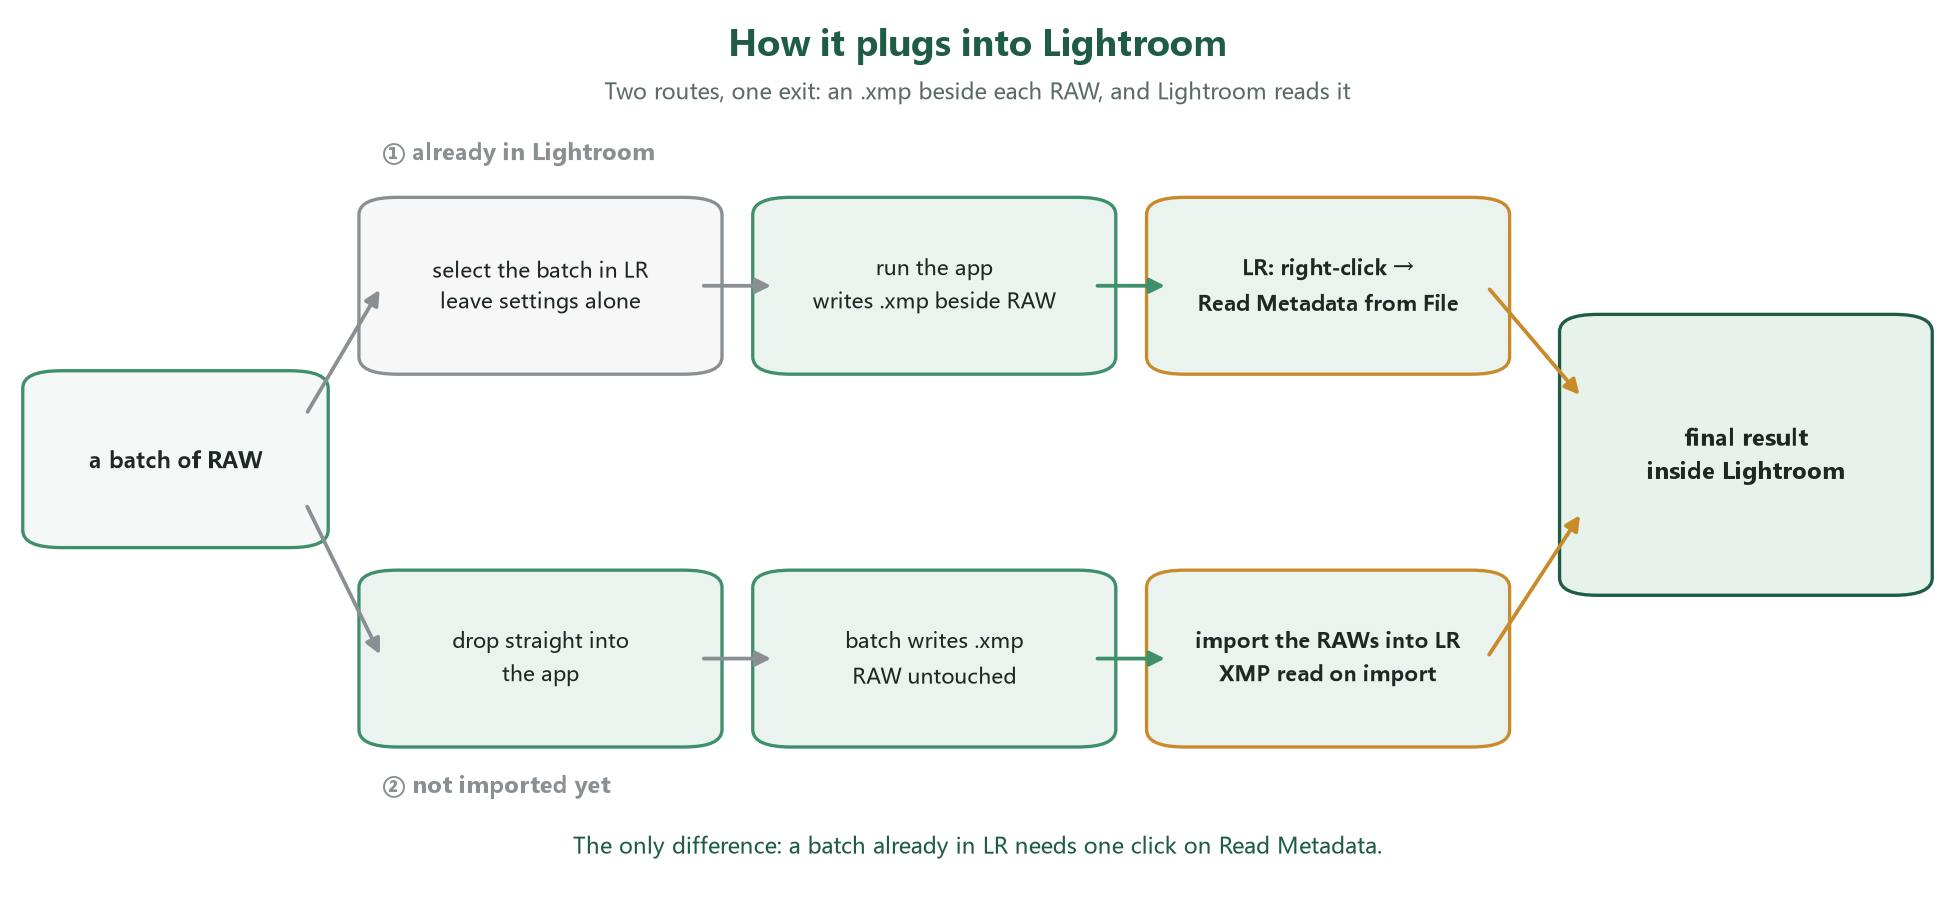
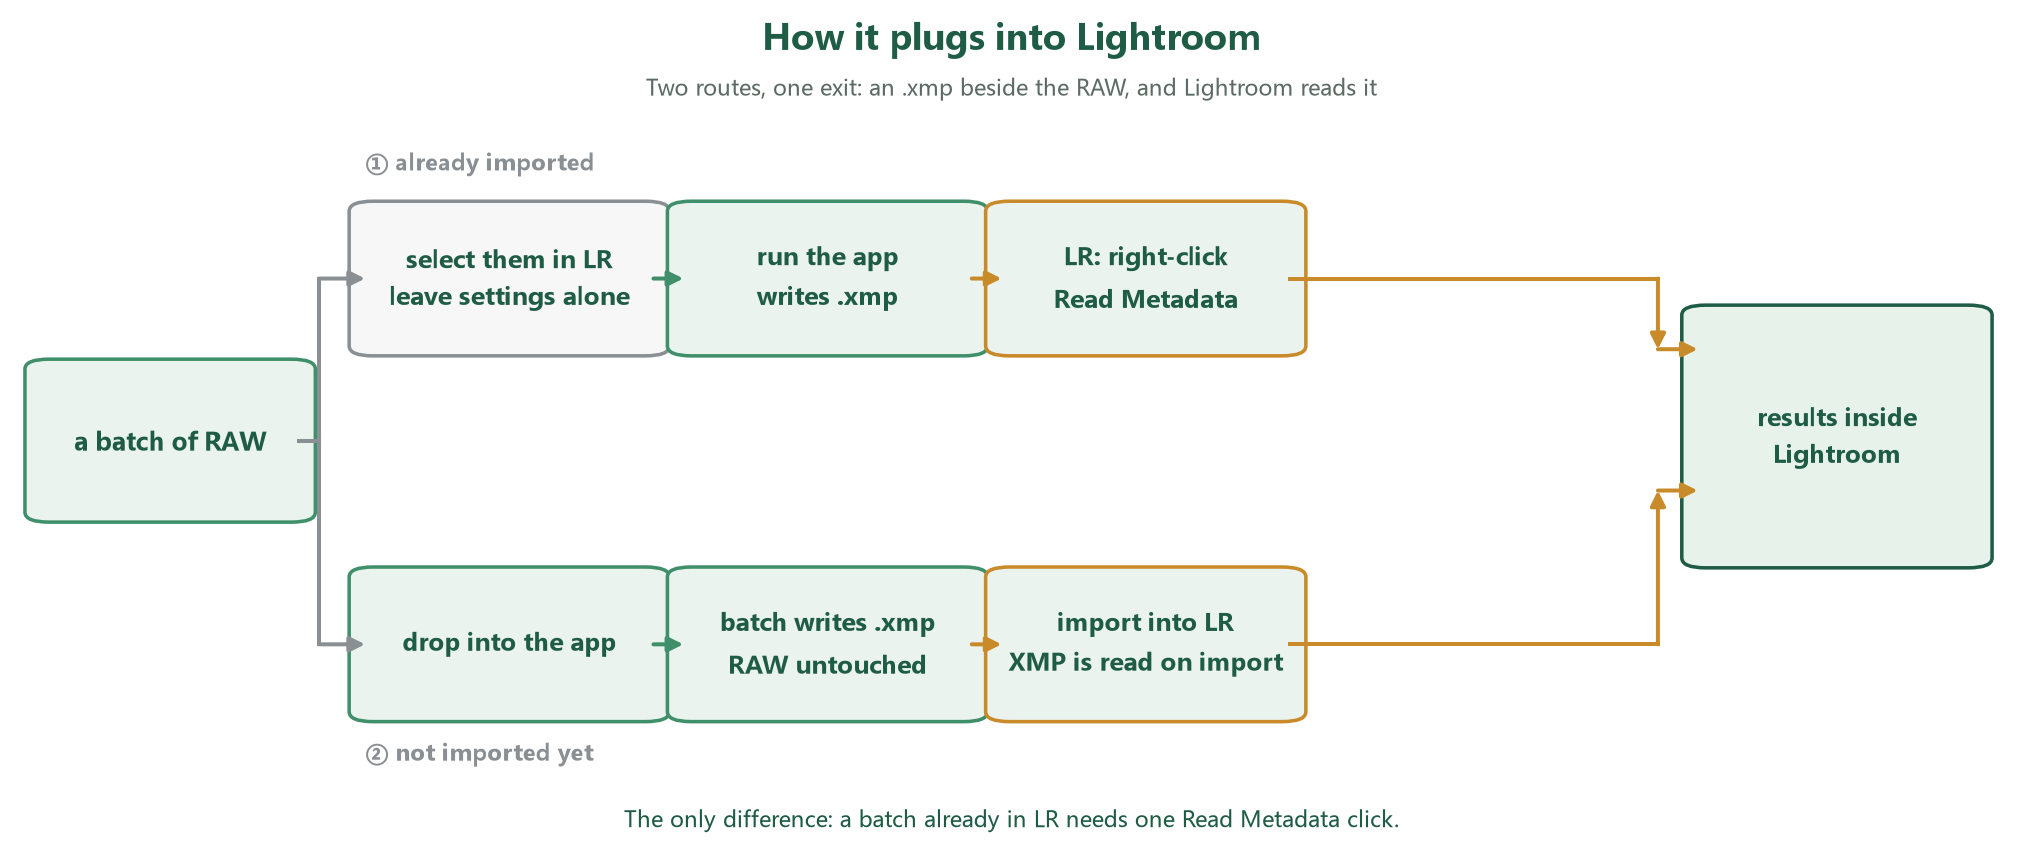
docs+ui: redraw both flowcharts (orthogonal arrows, per-step detail); drop the follow checkbox; collapse an empty sheet
- flow_lr: elbows instead of diagonals, nothing crosses
- flow_workflow: two concrete bullets per step, who-does-it on the right
- the follow behaviour stays (always follows until you click), the switch is gone
- when the contact sheet is empty it shrinks to a strip instead of eating half the panel

Changed region(s): [[0.0, 0.1561, 0.9985, 0.9052], [0.312, 0.0312, 0.6864, 0.1249], [0.2808, 0.9052, 0.7176, 0.9676]]

diff --git a/reports/flowcharts.py b/reports/flowcharts.py
@@ -1,7 +1,7 @@
-"""两张流程图（中英各一份）：
-   1) 它和 Lightroom 怎么接：已导入 / 未导入 两条路
-   2) 完整工作流：选片 → 精修 → 跑批 → 微调 → 导出
-输出到 docs/media/，由 docs/manual.md 引用。
+"""两张流程图（中英各一份），第二版：正交连线、不重叠、每步带细项。
+
+   1) 它和 Lightroom 怎么接
+   2) 完整工作流（生态摄影后期的五步）
 """
 from __future__ import annotations
 
@@ -10,7 +10,7 @@ import os
 import matplotlib
 matplotlib.use("Agg")
 import matplotlib.pyplot as plt
-from matplotlib.patches import FancyBboxPatch, FancyArrowPatch
+from matplotlib.patches import FancyBboxPatch
 
 HERE = os.path.dirname(os.path.abspath(__file__))
 OUT = os.path.join(os.path.dirname(HERE), "docs", "media")
@@ -19,99 +19,103 @@ os.makedirs(OUT, exist_ok=True)
 plt.rcParams["font.sans-serif"] = ["Microsoft YaHei", "SimHei", "DejaVu Sans"]
 plt.rcParams["axes.unicode_minus"] = False
 
-GREEN = "#3f8f6b"
-DEEP = "#1f5c45"
-GREY = "#8a8f93"
-AMBER = "#c98a2a"
-BLUE = "#4f86b8"
-INK = "#1f2724"
-SOFT = "#eaf3ee"
+GREEN, DEEP, GREY, AMBER, BLUE = "#3f8f6b", "#1f5c45", "#8a8f93", "#c98a2a", "#4f86b8"
+INK, SOFT, PAPER = "#1f2724", "#eaf3ee", "#f7f7f7"
 
 
-def box(ax, x, y, w, h, text, fc=SOFT, ec=GREEN, fs=10, bold=False, tc=INK):
-    p = FancyBboxPatch((x, y), w, h, boxstyle="round,pad=0.012,rounding_size=0.02",
-                       fc=fc, ec=ec, lw=1.4)
-    ax.add_patch(p)
-    ax.text(x + w / 2, y + h / 2, text, ha="center", va="center", fontsize=fs,
-            color=tc, fontweight="bold" if bold else "normal", linespacing=1.5)
+def box(ax, x, y, w, h, title=None, body=None, fc=SOFT, ec=GREEN,
+        fs_t=10.2, fs_b=8.6, tc=DEEP):
+    ax.add_patch(FancyBboxPatch((x, y), w, h, boxstyle="round,pad=0.008,rounding_size=0.012",
+                                fc=fc, ec=ec, lw=1.5))
+    if title and body:
+        ax.text(x + w / 2, y + h * .68, title, ha="center", va="center",
+                fontsize=fs_t, color=tc, fontweight="bold")
+        ax.text(x + w / 2, y + h * .32, body, ha="center", va="center",
+                fontsize=fs_b, color=INK, linespacing=1.55)
+    elif title:
+        ax.text(x + w / 2, y + h / 2, title, ha="center", va="center",
+                fontsize=fs_t, color=tc, fontweight="bold", linespacing=1.55)
 
 
-def arrow(ax, p1, p2, color=GREEN, style="-|>", lw=1.6, rad=0.0, ls="-"):
-    a = FancyArrowPatch(p1, p2, arrowstyle=style, mutation_scale=13,
-                        color=color, lw=lw, linestyle=ls,
-                        connectionstyle=f"arc3,rad={rad}")
-    ax.add_patch(a)
+def harrow(ax, x1, x2, y, c=GREEN):
+    ax.annotate("", xy=(x2, y), xytext=(x1, y),
+                arrowprops=dict(arrowstyle="-|>", color=c, lw=1.7,
+                                shrinkA=0, shrinkB=0, mutation_scale=13))
 
 
-def canvas(w=11, h=6.2):
+def varrow(ax, y1, y2, x, c=GREEN):
+    ax.annotate("", xy=(x, y2), xytext=(x, y1),
+                arrowprops=dict(arrowstyle="-|>", color=c, lw=1.7,
+                                shrinkA=0, shrinkB=0, mutation_scale=13))
+
+
+def canvas(w, h):
     fig, ax = plt.subplots(figsize=(w, h))
-    ax.set_xlim(0, 1)
-    ax.set_ylim(0, 1)
-    ax.axis("off")
+    ax.set_xlim(0, 1); ax.set_ylim(0, 1); ax.axis("off")
     return fig, ax
 
 
-# --------------------------------------------------------------- 1 与 LR 的关系
+# ------------------------------------------------------------------ 1 与 LR 的关系
 def fig_lr(zh: bool):
-    fig, ax = canvas(11.6, 5.4)
     t = (lambda a, b: a) if zh else (lambda a, b: b)
-
-    ax.text(.5, .955, t("它和 Lightroom 怎么接", "How it plugs into Lightroom"),
+    fig, ax = canvas(12.0, 5.2)
+    ax.text(.5, .96, t("它和 Lightroom 怎么接", "How it plugs into Lightroom"),
             ha="center", fontsize=15, fontweight="bold", color=DEEP)
-    ax.text(.5, .905, t("两条路，出口一样：照片旁边多一个 .xmp，LR 认它",
-                        "Two routes, one exit: an .xmp beside each RAW, and Lightroom reads it"),
-            ha="center", fontsize=9.5, color="#5c6b64")
+    ax.text(.5, .905, t("两条路，一个出口：RAW 旁边多一个 .xmp，Lightroom 认它",
+                        "Two routes, one exit: an .xmp beside the RAW, and Lightroom reads it"),
+            ha="center", fontsize=9.4, color="#5c6b64")
 
-    # 列坐标
-    x0, w0 = .015, .135          # 起点
-    xs = [.19, .395, .60]        # 三列
-    ws = .165
-    xr, wr = .815, .17           # 结果
+    x_start, w_start = .012, .13
+    cols = [.175, .335, .495]
+    w = .145
+    x_end, w_end = .845, .14
+    yA, yB, hh = .60, .16, .17
 
-    ya, ha = .60, .18            # 上支
-    yb, hb = .17, .18            # 下支
+    box(ax, x_start, .40, w_start, .18,
+        t("一批新照片\n（RAW）", "a batch of RAW"), fs_t=10.4)
 
-    # 起点
-    box(ax, x0, .40, w0, .18,
-        t("一批新照片\n（RAW）", "a batch of RAW"), fc="#f4f8f6", fs=9.4, bold=True)
+    ax.text(.175, .815, t("① 已经导进 Lightroom", "① already imported"),
+            fontsize=9.6, color=GREY, fontweight="bold")
+    ax.text(.175, .105, t("② 还没导进 Lightroom", "② not imported yet"),
+            fontsize=9.6, color=GREY, fontweight="bold")
 
-    # 分支标签
-    ax.text(.19, .835, t("① 已经导进 Lightroom", "① already in Lightroom"),
-            fontsize=9.8, color=GREY, fontweight="bold")
-    ax.text(.19, .105, t("② 还没导进 Lightroom", "② not imported yet"),
-            fontsize=9.8, color=GREY, fontweight="bold")
+    A = [t("LR 里全选\n参数先别动", "select them in LR\nleave settings alone"),
+         t("跑软件\n写 .xmp", "run the app\nwrites .xmp"),
+         t("LR 右键\n读取元数据", "LR: right-click\nRead Metadata")]
+    B = [t("直接拖进软件", "drop into the app"),
+         t("批量出 .xmp\n原片不动", "batch writes .xmp\nRAW untouched"),
+         t("RAW 拖进 LR 导入\n导入即读 .xmp", "import into LR\nXMP is read on import")]
 
-    A = [t("LR 里全选这批\n参数先别动", "select the batch in LR\nleave settings alone"),
-         t("跑 iKun Insect Studio\nRAW 旁边写 .xmp", "run the app\nwrites .xmp beside RAW"),
-         t("LR：右键 →\n「从文件读取元数据」", "LR: right-click →\nRead Metadata from File")]
-    B = [t("直接拖进\niKun Insect Studio", "drop straight into\nthe app"),
-         t("批量出 .xmp\n（原片不动）", "batch writes .xmp\nRAW untouched"),
-         t("把 RAW 拖进 LR 导入\n（导入即读 .xmp）", "import the RAWs into LR\nXMP read on import")]
+    for i, x in enumerate(cols):
+        ecA = [GREY, GREEN, AMBER][i]
+        ecB = [GREEN, GREEN, AMBER][i]
+        box(ax, x, yA, w, hh, A[i], fc=PAPER if i == 0 else SOFT, ec=ecA)
+        box(ax, x, yB, w, hh, B[i], fc=SOFT, ec=ecB)
 
-    for i, x in enumerate(xs):
-        box(ax, x, ya, ws, ha, A[i], fc="#f7f7f7" if i == 0 else SOFT,
-            ec=GREY if i == 0 else (AMBER if i == 2 else GREEN), fs=8.8,
-            bold=(i == 2))
-        box(ax, x, yb, ws, hb, B[i], fc=SOFT,
-            ec=AMBER if i == 2 else GREEN, fs=8.8, bold=(i == 2))
+    # 起点 → 两行（正交折线）
+    ax.plot([x_start + w_start, .152], [.49, .49], color=GREY, lw=1.7)
+    ax.plot([.152, .152], [yA + hh / 2, yB + hh / 2], color=GREY, lw=1.7)
+    harrow(ax, .152, cols[0], yA + hh / 2, GREY)
+    harrow(ax, .152, cols[0], yB + hh / 2, GREY)
 
-    # 起点 → 两支
-    arrow(ax, (x0 + w0, .54), (xs[0], ya + ha / 2), GREY)
-    arrow(ax, (x0 + w0, .44), (xs[0], yb + hb / 2), GREY)
-    # 横向
     for i in range(2):
-        arrow(ax, (xs[i] + ws, ya + ha / 2), (xs[i + 1], ya + ha / 2),
-              GREEN if i == 1 else GREY)
-        arrow(ax, (xs[i] + ws, yb + hb / 2), (xs[i + 1], yb + hb / 2),
-              GREEN if i == 1 else GREY)
-    # 汇合
-    box(ax, xr, .345, wr, .30, t("Lightroom 里\n看到最终结果", "final result\ninside Lightroom"),
-        fc="#e6f2ea", ec=DEEP, fs=9.6, bold=True)
-    arrow(ax, (xs[2] + ws, ya + ha / 2), (xr, .56), AMBER)
-    arrow(ax, (xs[2] + ws, yb + hb / 2), (xr, .43), AMBER)
+        harrow(ax, cols[i] + w, cols[i + 1], yA + hh / 2, GREEN if i == 0 else AMBER)
+        harrow(ax, cols[i] + w, cols[i + 1], yB + hh / 2, GREEN if i == 0 else AMBER)
 
-    ax.text(.5, .035, t("差别只有一个动作：已经在 LR 里的那批，要手点一次「读取元数据」。",
-                        "The only difference: a batch already in LR needs one click on Read Metadata."),
+    box(ax, x_end, .345, w_end, .30,
+        t("Lightroom 里\n看到结果", "results inside\nLightroom"), fc="#e6f2ea", ec=DEEP,
+        fs_t=10.2)
+
+    # 两支 → 结果（折线，不斜穿）
+    ax.plot([cols[2] + w, .825], [yA + hh / 2, yA + hh / 2], color=AMBER, lw=1.7)
+    varrow(ax, yA + hh / 2, .60, .825, AMBER)
+    ax.plot([cols[2] + w, .825], [yB + hh / 2, yB + hh / 2], color=AMBER, lw=1.7)
+    varrow(ax, yB + hh / 2, .43, .825, AMBER)
+    harrow(ax, .825, x_end, .60, AMBER)
+    harrow(ax, .825, x_end, .43, AMBER)
+
+    ax.text(.5, .025, t("差别只有一个动作：已经在 LR 里的那批，手点一次「读取元数据」。",
+                        "The only difference: a batch already in LR needs one Read Metadata click."),
             ha="center", fontsize=9.2, color=DEEP)
     fig.tight_layout()
     fp = os.path.join(OUT, f"flow_lr.{'zh' if zh else 'en'}.png")
@@ -120,64 +124,76 @@ def fig_lr(zh: bool):
     return fp
 
 
-# --------------------------------------------------------------- 2 工作流
-def fig_workflow(zh: bool):
-    fig, ax = canvas(8.4, 11.2)
-    t = (lambda a, b: a) if zh else (lambda a, b: b)
+# ------------------------------------------------------------------ 2 工作流
+STEPS = {
+    "zh": [
+        ("选片", "你", GREY,
+         ["按批次先过一遍：糊的、抖的、重复的、遮挡的直接删",
+          "留下有行为、有生境信息的；生态片的价值常在那一点环境里"]),
+        ("挑出要精修的", "你", AMBER,
+         ["只挑 5–10%：真正能出片的几张",
+          "完整后期手工做（构图、光比、色彩），这几张不交给软件"]),
+        ("跑批", "软件", GREEN,
+         ["其余全部拖进软件，策略选「跳过已有 XMP」",
+          "只做掩膜 → 裁切 → 曝光 → 锐化，写进 .xmp；白平衡不碰"]),
+        ("微调", "你", BLUE,
+         ["白平衡必须自己调（软件不猜色温）",
+          "曝光、裁切个别不平的拖一下；头点拖错也会被记住"]),
+        ("导出", "Lightroom", DEEP,
+         ["LR 里「读取元数据」→ 套统一预设 → 导出",
+          "软件只写 .xmp，原片一个字节都不动"]),
+    ],
+    "en": [
+        ("Cull", "you", GREY,
+         ["Go batch by batch: delete soft, shaken, duplicated, blocked frames",
+          "Keep behaviour and habitat — in ecological work the environment is the story"]),
+        ("Pick the keepers", "you", AMBER,
+         ["Only 5–10%: the frames actually worth publishing",
+          "Finish these by hand (composition, contrast, colour); keep them out of the batch"]),
+        ("Batch run", "the app", GREEN,
+         ["Drop the rest in, policy = 「skip photos with XMP」",
+          "Mask → crop → exposure → sharpening into .xmp; white balance untouched"]),
+        ("Fine-tune", "you", BLUE,
+         ["White balance by hand — the app never guesses colour temperature",
+          "Nudge the odd exposure or crop; a corrected head point is remembered"]),
+        ("Export", "Lightroom", DEEP,
+         ["Read Metadata in LR → apply your preset → export",
+          "The app only writes .xmp; the RAW is never modified"]),
+    ],
+}
 
-    ax.text(.5, .972, t("完整工作流：从一堆废片到交付",
+
+def fig_workflow(zh: bool):
+    rows = STEPS["zh" if zh else "en"]
+    fig, ax = canvas(9.0, 11.6)
+    t = (lambda a, b: a) if zh else (lambda a, b: b)
+    ax.text(.5, .975, t("完整工作流：从一堆废片到交付",
                         "The full workflow: from a card dump to delivery"),
             ha="center", fontsize=14.5, fontweight="bold", color=DEEP)
+    ax.text(.5, .938, t("五步，前三步决定成片质量，后两步决定一致性",
+                        "Five steps: the first three decide quality, the last two decide consistency"),
+            ha="center", fontsize=9.2, color="#5c6b64")
 
-    steps = [
-        (t("选片", "Cull"),
-         t("手动过一遍，太丑的、糊的、重复的直接删",
-           "Go through by hand; delete the ugly, the soft, the duplicates"),
-         t("这一步只能你做，软件不猜", "only you can do this — the tool will not guess"),
-         GREY),
-        (t("挑出要精修的", "Pick the keepers"),
-         t("特别满意的几张，先自己手动修到满意",
-           "The few you really care about: edit them by hand first"),
-         t("后面跑批时要「跳过自己修过的」，靠的就是这批",
-          "this is what 「skip what I edited」 protects later"),
-         AMBER),
-        (t("跑批", "Batch run"),
-         t("剩下的全部拖进软件，策略选「跳过已有 XMP」",
-           "drop the rest into the app, policy = 「skip photos with XMP」"),
-         t("掩膜 + 裁切 + 曝光 + 锐化一次出完，写成 .xmp",
-           "mask + crop + exposure + sharpening in one pass, written as .xmp"),
-         GREEN),
-        (t("微调", "Fine-tune"),
-         t("白平衡手动调；个别曝光、裁切不平的，在软件里拖一下",
-           "white balance by hand; nudge the odd exposure or crop in the app"),
-         t("拖过的这张会记住，下次遇到相近的自动补偿",
-           "a nudged head point is remembered and reused for similar frames"),
-         BLUE),
-        (t("导出", "Export"),
-         t("LR 里「读取元数据」→ 统一套预设 → 导出",
-           "Read Metadata in LR → apply your preset → export"),
-         t("软件只写到 .xmp，不碰你的原片", "the app only writes .xmp; RAWs are never touched"),
-         DEEP),
-    ]
+    top, gap, bh = .885, .168, .128
+    for i, (head, who, col, bullets) in enumerate(rows):
+        y = top - i * gap - bh
+        ax.add_patch(FancyBboxPatch((.055, y), .855, bh,
+                                    boxstyle="round,pad=0.006,rounding_size=0.012",
+                                    fc="white", ec=col, lw=1.6))
+        ax.add_patch(plt.Circle((.105, y + bh / 2), .027, color=col, zorder=3))
+        ax.text(.105, y + bh / 2, str(i + 1), ha="center", va="center",
+                color="white", fontsize=11.5, fontweight="bold", zorder=4)
+        ax.text(.150, y + bh - .034, head, fontsize=11.6, fontweight="bold", color=col)
+        ax.text(.845, y + bh - .036, who, fontsize=8.8, color=col, ha="right",
+                fontweight="bold")
+        ax.text(.150, y + bh * .40, "· " + bullets[0], fontsize=9.0, color=INK)
+        ax.text(.150, y + bh * .16, "· " + bullets[1], fontsize=9.0, color="#55655d")
+        if i < len(rows) - 1:
+            varrow(ax, y - .002, y - gap + bh + .006, .5, col)
 
-    top = .925
-    gap = .175
-    for i, (head, what, note, col) in enumerate(steps):
-        y = top - i * gap - .12
-        box(ax, .06, y, .88, .125, "", fc="white", ec=col, fs=9)
-        # 序号圆
-        ax.add_patch(plt.Circle((.115, y + .062), .026, color=col, zorder=3))
-        ax.text(.115, y + .062, str(i + 1), ha="center", va="center",
-                color="white", fontsize=11, fontweight="bold", zorder=4)
-        ax.text(.165, y + .085, head, fontsize=11.5, fontweight="bold", color=col)
-        ax.text(.165, y + .050, what, fontsize=9.4, color=INK)
-        ax.text(.165, y + .020, note, fontsize=8.4, color="#6b7a73", style="italic")
-        if i < len(steps) - 1:
-            arrow(ax, (.5, y - .004), (.5, y - gap + .128), col, lw=1.8)
-
-    ax.text(.5, .022, t("第 2 步和第 3 步的顺序不能反：先手动修完，再让软件避开它们。",
-                        "Steps 2 and 3 cannot swap: edit by hand first, then let the batch skip them."),
-            ha="center", fontsize=8.8, color="#5c6b64")
+    ax.text(.5, .022, t("② 和 ③ 不能换序：先手工修完，再让跑批跳过它们。",
+                        "② and ③ cannot swap: finish the hand edits first, then let the batch skip them."),
+            ha="center", fontsize=9.0, color="#5c6b64")
     fig.tight_layout()
     fp = os.path.join(OUT, f"flow_workflow.{'zh' if zh else 'en'}.png")
     fig.savefig(fp, dpi=170, facecolor="white", bbox_inches="tight")

diff --git a/ui/main_window.py b/ui/main_window.py
@@ -1114,6 +1114,12 @@ class MainWindow(QMainWindow):
         self.chk_ev.stateChanged.connect(self._evprev_toggle)
 
         # 两个开关并排，说明合成一行放它们下面
+        # 「跟随当前」不再露出来：列表默认跟着跑批滚动，你点某张就停在它上面。
+        # 仍然建一个隐藏的复选框，让内部开关逻辑保持不变。
+        self.chk_follow = QCheckBox(self._t("follow"))
+        self.chk_follow.setChecked(True)
+        self.chk_follow.setVisible(False)
+
         _row = QHBoxLayout()
         _row.setContentsMargins(0, 0, 0, 0)
         _row.setSpacing(14)
@@ -1144,11 +1150,6 @@ class MainWindow(QMainWindow):
         ph.addWidget(self.cb_policy)
         ph.addSpacing(14)
 
-        self.chk_follow = QCheckBox(self._t("follow"))
-        self.chk_follow.setChecked(bool(self.cfg.get("follow")))
-        self.chk_follow.setToolTip(self._t("follow_tip"))
-        self.chk_follow.stateChanged.connect(self._follow_toggle)
-        ph.addWidget(self.chk_follow)
         tlay.addLayout(ph)
 
         # 图例单独一行靠右；微调条在左侧，只在编辑时出现
@@ -1743,8 +1744,6 @@ class MainWindow(QMainWindow):
         self.chk_ev.setToolTip(self._t("ev_prev_tip"))
         self.l_xmp.setText(self._t("xmp"))
         self.cb_policy.setToolTip(self._t("policy_tip"))
-        self.chk_follow.setText(self._t("follow"))
-        self.chk_follow.setToolTip(self._t("follow_tip"))
         self.l_edit.setText(self._t("edit_hint"))
         self.l_edit.setToolTip(self._t("edit_tip"))
         self.b_commit.setText(self._t("commit"))
@@ -1846,9 +1845,6 @@ class MainWindow(QMainWindow):
         """所有「选中某一张」的入口统一走这里。"""
         if row < 0 or row >= len(self._tasks):
             return
-        if by_user and self.chk_follow.isChecked():
-            self._set_follow(False)
-            self.status.showMessage(self._t("follow_off"), 3500)
         self.list.setCurrentRow(row)
         item = self.list.item(row)
         if item is not None:
@@ -2183,9 +2179,6 @@ class MainWindow(QMainWindow):
             self._preview_pin = None      # 恢复跟随：不再定格在手动点的那张
             self._last_preview = None
 
-    def _follow_toggle(self):
-        self._set_follow(self.chk_follow.isChecked())
-
     def _cfg_changed(self):
         mode = ["both", "crop", "exposure"][self.cb_mode.currentIndex()]
         seg = 768 if self.cb_seg.currentIndex() == 0 else 512
@@ -2469,6 +2462,16 @@ class MainWindow(QMainWindow):
 
     # ---------------------------------------------------------------- 刷新
     def _refresh_grid(self):
+        # 拼版没有内容时把它压成一条，别占着半个屏
+        try:
+            tot = sum(self.split_right.sizes()) or 700
+            if self.grid.count() == 0:
+                self.split_right.setSizes([max(200, tot - 56), 56])
+            elif getattr(self, "_sheet_empty", True):
+                self.split_right.setSizes([max(260, tot - 230), 230])
+            self._sheet_empty = self.grid.count() == 0
+        except Exception:      # noqa: BLE001
+            pass
         items = self.engine.sheet_items()
         sig = tuple((r.get("path"), r.get("preview")) for r in items)
         if sig == self._sheet_sig:
